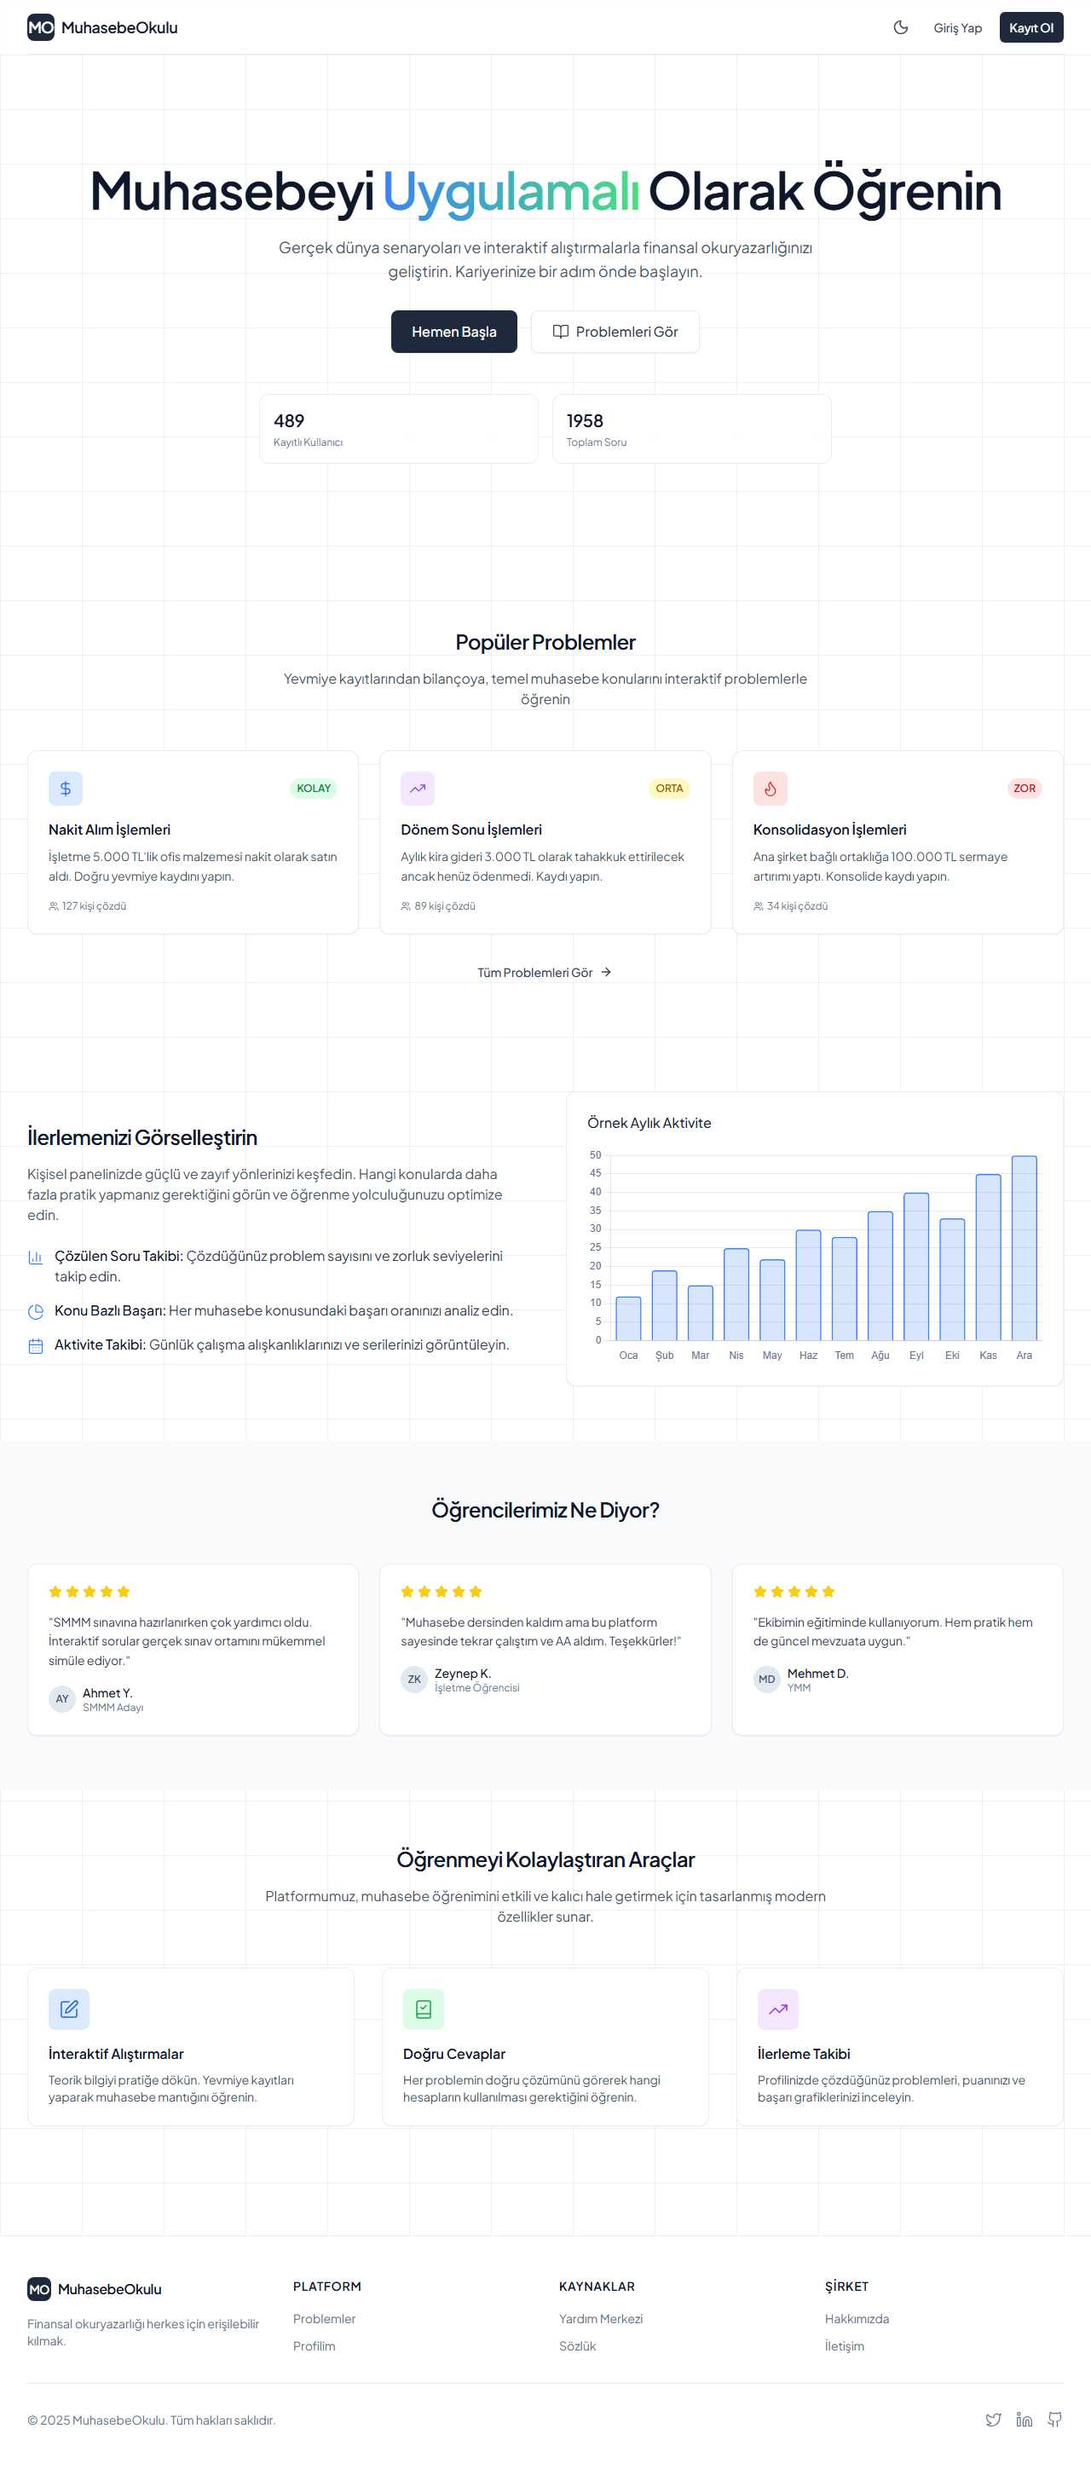
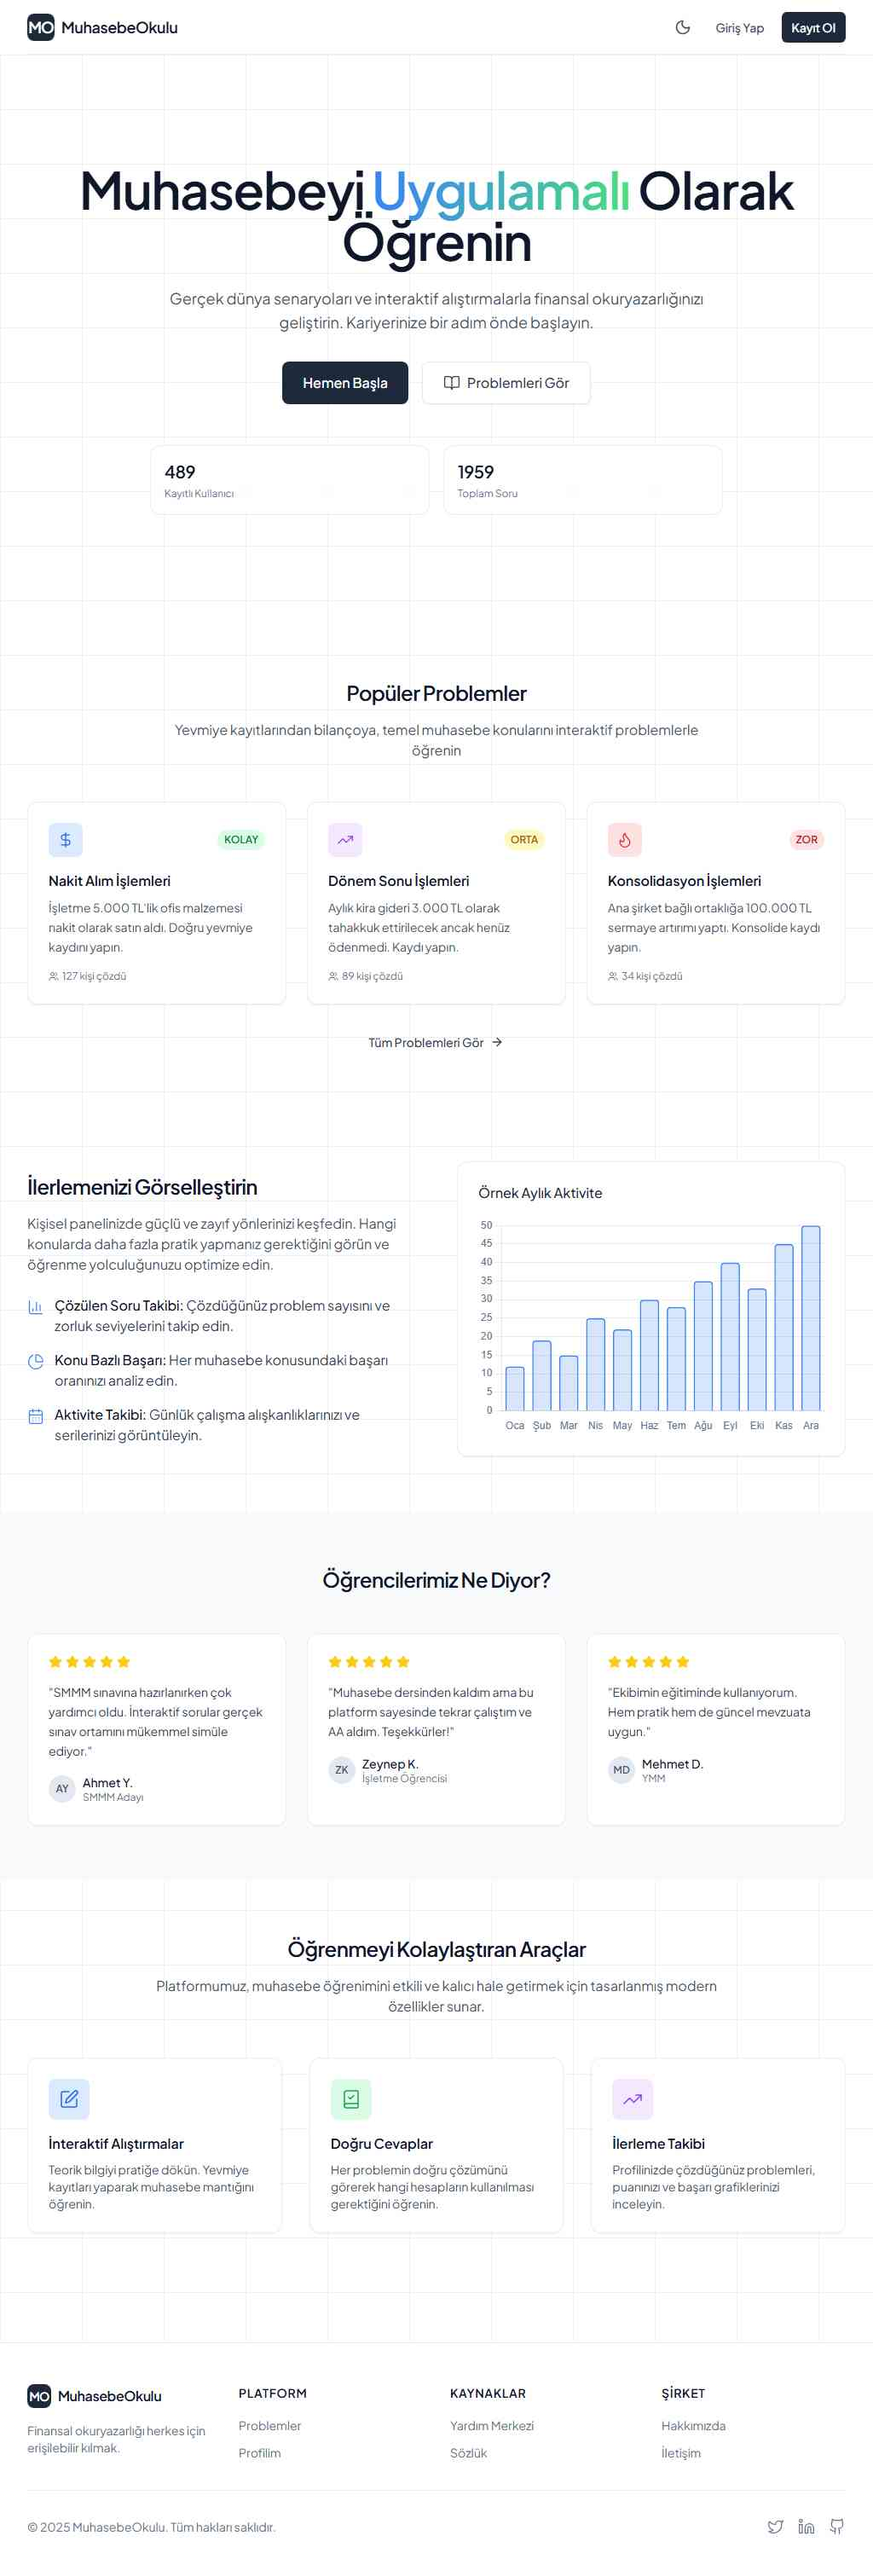
optimize: Further reduce screenshot sizes to 125KB average
- Reduced viewport to 1024x600
- Lowered JPEG quality to 30
- Total size reduced from 637KB to 454KB (29% reduction)
- All screenshots remain clear and web-optimized

diff --git a/optimize-screenshots.js b/optimize-screenshots.js
@@ -3,7 +3,7 @@ const fs = require('fs');
 
 (async () => {
   const browser = await playwright.chromium.launch();
-  const context = await browser.newContext({ viewport: { width: 1280, height: 720 } });
+  const context = await browser.newContext({ viewport: { width: 1024, height: 600 } });
   const page = await context.newPage();
 
   const pages = [
@@ -17,11 +17,11 @@ const fs = require('fs');
   for (const p of pages) {
     await page.goto(p.url, { waitUntil: 'networkidle' });
     await page.waitForTimeout(1000);
-    await page.screenshot({ 
-      path: `screenshots/${p.name}.jpg`, 
+    await page.screenshot({
+      path: `screenshots/${p.name}.jpg`,
       type: 'jpeg',
-      quality: 50,
-      fullPage: true 
+      quality: 30,
+      fullPage: true
     });
     console.log(`✓ ${p.name}.jpg`);
   }
